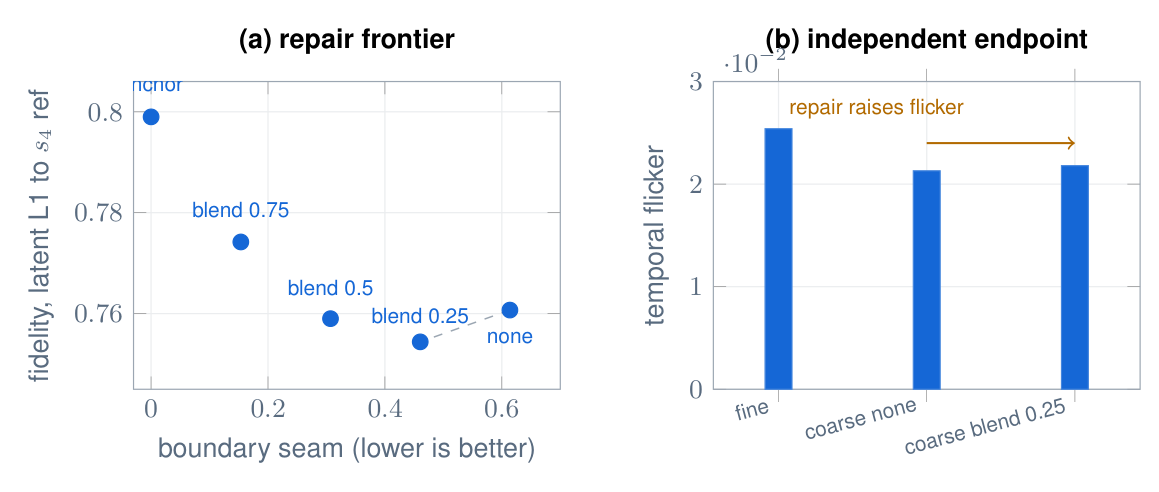
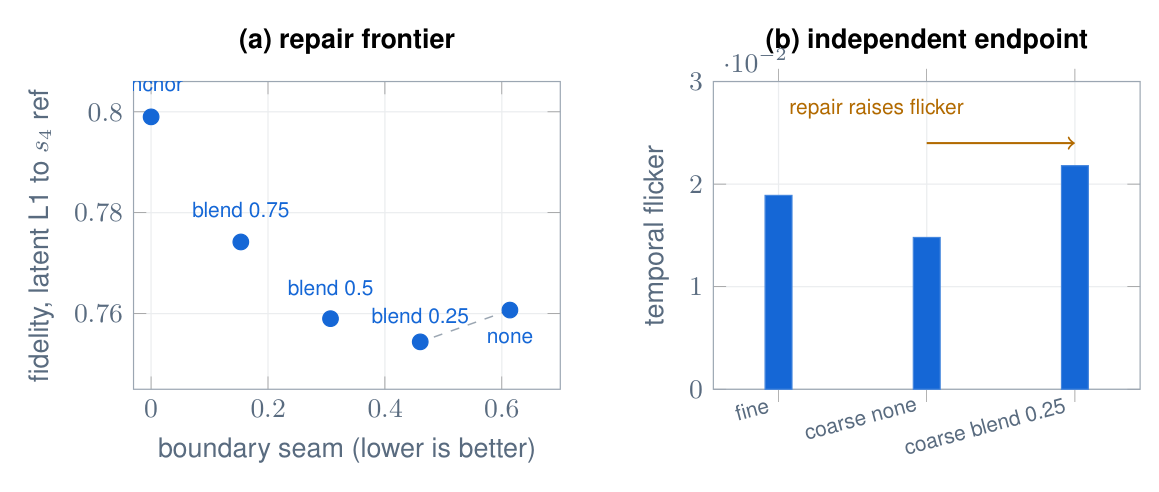
fix(audit F-2 residual): correct the remaining flicker values in the R3 tables and the seam figure
- README and site R3 'quality by endpoint' tables: flicker fine 0.0254->0.0189, coarse 0.0213->0.0148
- fig_seam panel (b) bars regenerated with the corrected means (0.0189 / 0.0148 / 0.0218)
- NEWS/STATUS/README_E8 keep the old values only inside the correction notice (intentional)

Changed region(s): [[0.7765, 0.3354, 0.8387, 0.4878], [0.6523, 0.2439, 0.6833, 0.3963]]

diff --git a/docs/index.html b/docs/index.html
@@ -222,7 +222,7 @@
       <tbody>
         <tr><td>latent L1 to s4 reference</td><td>0.807</td><td><strong>0.752</strong></td><td>0.780</td><td><strong>0.721</strong></td></tr>
         <tr><td>decoded-pixel L1</td><td>0.2686</td><td><strong>0.2511</strong></td><td>—</td><td>—</td></tr>
-        <tr><td>temporal flicker</td><td>0.0254</td><td><strong>0.0213</strong></td><td>—</td><td>—</td></tr>
+        <tr><td>temporal flicker</td><td>0.0189</td><td><strong>0.0148</strong></td><td>—</td><td>—</td></tr>
       </tbody>
     </table>
 

diff --git a/paper/figures/fig_seam.tex b/paper/figures/fig_seam.tex
@@ -49,7 +49,7 @@
   ymin=0.0, ymax=0.030, enlarge x limits=0.22,
 ]
 \addplot[fill=mainc,draw=mainc!80] coordinates {
-  (fine,0.0254) (coarse none,0.0213) (coarse blend 0.25,0.0218)};
+  (fine,0.0189) (coarse none,0.0148) (coarse blend 0.25,0.0218)};
 \node[font=\scriptsize,color=warnc,anchor=north west] at (axis cs:fine,0.0294)
   {repair raises flicker};
 \draw[->,draw=warnc,line width=0.7pt] (axis cs:coarse none,0.0240) -- (axis cs:coarse blend 0.25,0.0240);

diff --git a/README.md b/README.md
@@ -122,7 +122,7 @@ leave-one-prompt-out cross-validation grouped by prompt.
 |---|---|---|---|---|
 | latent $L_1$ to $s_4$ reference | 0.807 | **0.752** | 0.780 | **0.721** |
 | decoded-pixel $L_1$ | 0.2686 | **0.2511** | — | — |
-| temporal flicker | 0.0254 | **0.0213** | — | — |
+| temporal flicker | 0.0189 | **0.0148** | — | — |
 
 ### R4 · Seam repair (T4, 32 matched segments)
 
